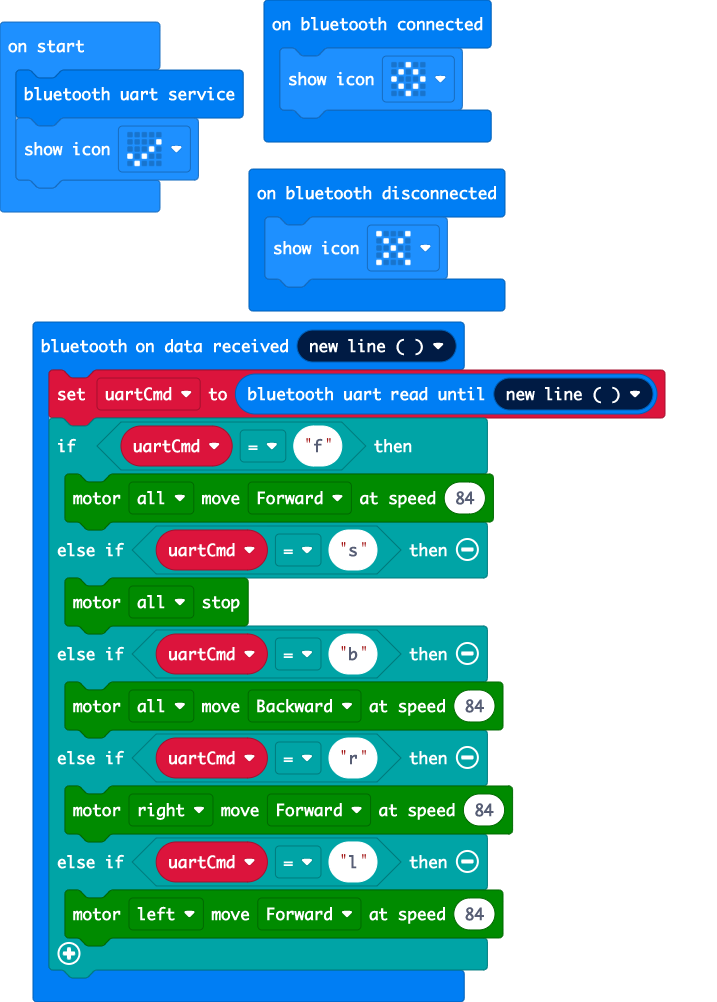
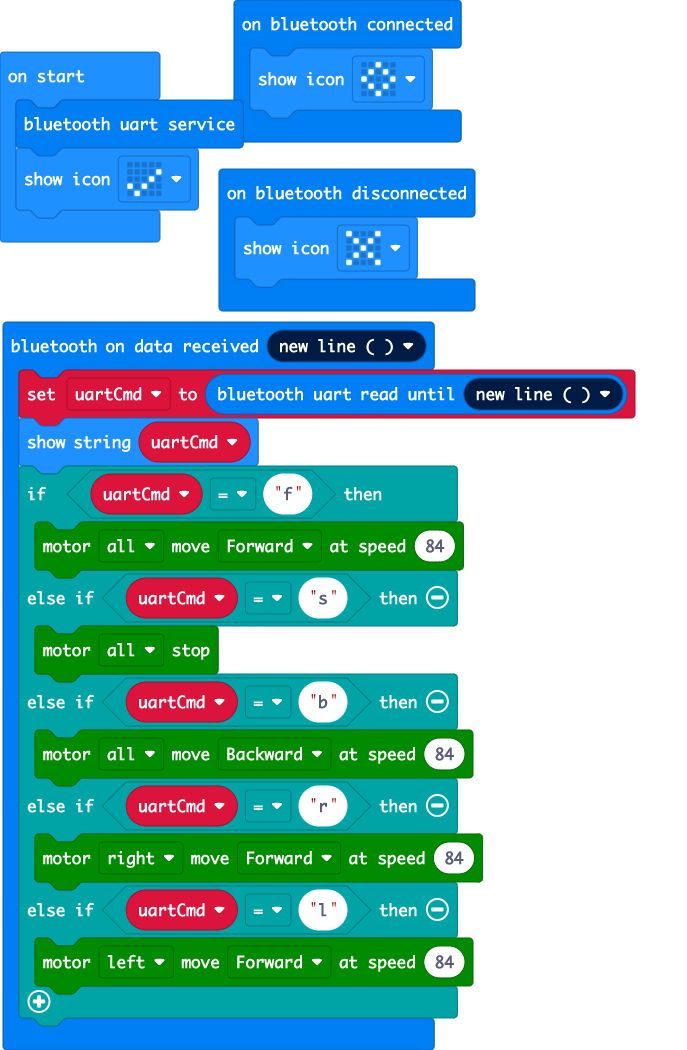
Update pxt.json, main.blocks, main.py, main.ts

diff --git a/main.ts b/main.ts
@@ -7,6 +7,7 @@ bluetooth.onBluetoothDisconnected(function on_bluetooth_disconnected() {
 bluetooth.onUartDataReceived(serial.delimiters(Delimiters.NewLine), function on_uart_data_received() {
     
     uartCmd = bluetooth.uartReadUntil(serial.delimiters(Delimiters.NewLine))
+    basic.showString(uartCmd)
     if (uartCmd == "f") {
         maqueen.motorRun(maqueen.Motors.All, maqueen.Dir.CW, 84)
     } else if (uartCmd == "s") {

diff --git a/main.py b/main.py
@@ -9,6 +9,7 @@ bluetooth.on_bluetooth_disconnected(on_bluetooth_disconnected)
 def on_uart_data_received():
     global uartCmd
     uartCmd = bluetooth.uart_read_until(serial.delimiters(Delimiters.NEW_LINE))
+    basic.show_string(uartCmd)
     if uartCmd == "f":
         maqueen.motor_run(maqueen.Motors.ALL, maqueen.Dir.CW, 84)
     elif uartCmd == "s":
